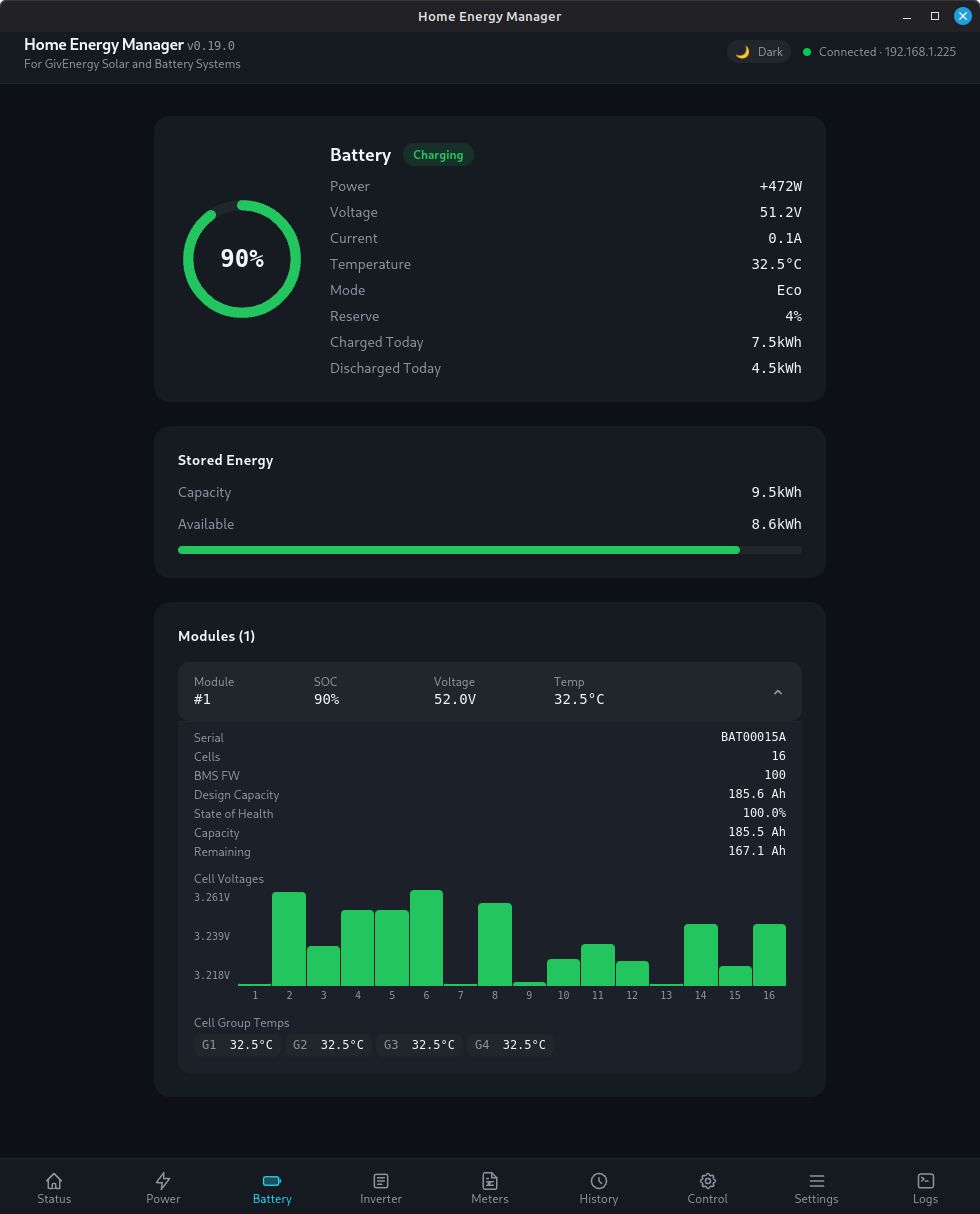
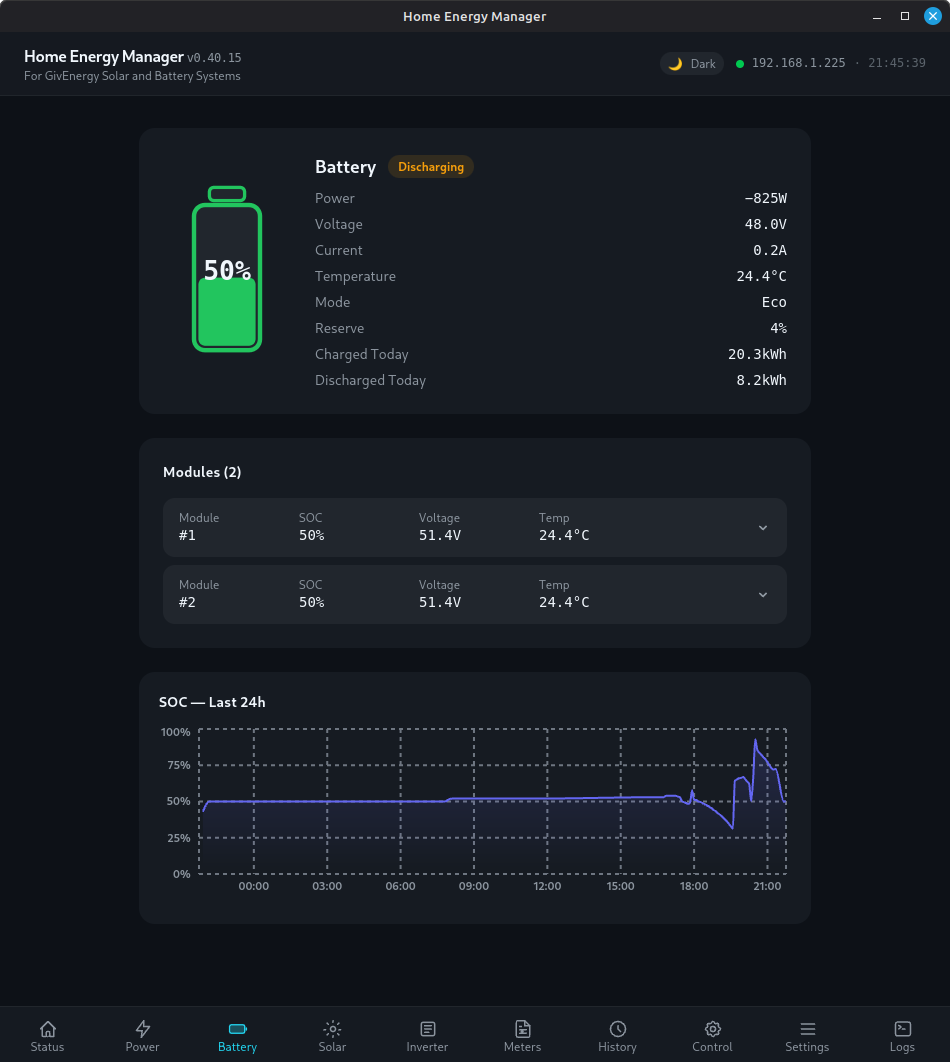
Release v0.41.0
- Bump version to 0.41.0 (package.json, Cargo.toml/lock, tauri.conf.json)
- CI resilience: cargo/rustup net retries (.cargo/config.toml + workflow env)
- Refresh screenshots (status, status-mobile, battery; add solar)

diff --git a/CHANGELOG.md b/CHANGELOG.md
@@ -4,6 +4,8 @@ All notable changes to this project will be documented in this file.
 
 ## [Unreleased]
 
+## [0.41.0] - 2026-06-26
+
 ### Fixed
 
 - **The manual Inverter Address field now validates like the EV Charger field.** Typing a malformed address (a missing octet, out-of-range numbers, letters) now turns the field red, shows a hint, and disables Connect instead of letting a bad host be saved and retried forever — the same IPv4 check the EV Charger field already had. See #153.